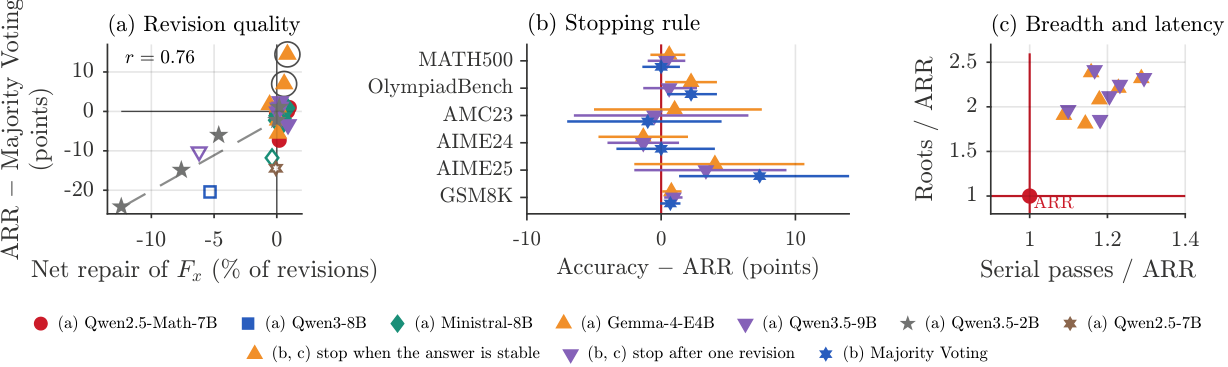
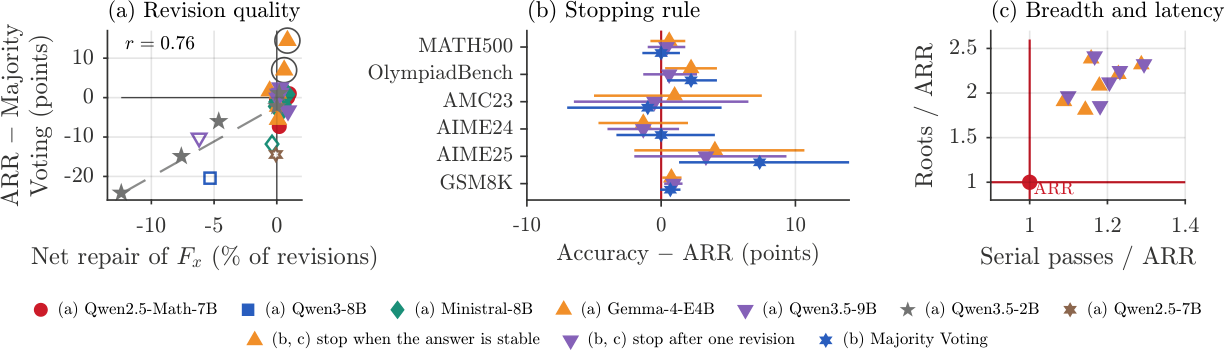
Shorten the left y-axis labels of the dynamics and regimes figures
The labels were taller than their axes and were cut at the top of the
figure. Refresh the README copies of both figures.

diff --git a/make_matlab_figure_script.py b/make_matlab_figure_script.py
@@ -762,7 +762,7 @@ h1 = plot(ax, k, accRev, '-o', 'Color', S.col(1,:), 'LineWidth', 1.6, 'MarkerSiz
 h2 = plot(ax, k, accIni, '--s', 'Color', S.col(4,:), 'LineWidth', 1.1, 'MarkerSize', 3.2, 'MarkerFaceColor', S.col(4,:));
 h3 = plot(ax, [k(1) k(end)], [accNew accNew], ':', 'Color', S.col(8,:), 'LineWidth', 1.5);
 set(ax, 'XLim', [-0.4 k(end) + 0.4], 'XTick', k, 'YLim', [70 95], 'YTick', 70:5:95);
-xlabel(ax, 'Revisions $k$ of a root'); ylabel(ax, 'Accuracy of a root (\%)');
+xlabel(ax, 'Revisions $k$ of a root'); ylabel(ax, 'Root accuracy (\%)');
 
 % (b) answer changes and fixed points at each revision index
 ax = nexttile(t); styleAxes(ax, S, '(b) Revision stage');
@@ -863,7 +863,7 @@ end
 r = corrcoef(regX, regY);
 text(ax, min(regX) + 0.3, 13.5, sprintf('$r = %.2f$', r(1,2)), 'FontSize', S.fs - 1);
 set(ax, 'YLim', [-26 17], 'XLim', [-13.5 2]);
-xlabel(ax, 'Net repair of $F_x$ (\% of revisions)'); ylabel(ax, {'ARR $-$ Majority Voting', '(points)'});
+xlabel(ax, 'Net repair of $F_x$ (\% of revisions)'); ylabel(ax, {'ARR $-$ Majority', 'Voting (points)'});
 axL = axes(f, 'Visible', 'off', 'Position', [0 0 0.01 0.01]); hold(axL, 'on');   % legends need figure-level axes
 for m = 1:numel(mdl), hm(m) = plot(axL, NaN, NaN, mk{m}, 'MarkerSize', 4.5, 'Color', pal(m,:), 'MarkerFaceColor', pal(m,:)); end
 lgM = legend(axL, hm, strcat('(a)~', mdl), 'Orientation', 'horizontal', 'NumColumns', numel(mdl), 'Box', 'off', ...
